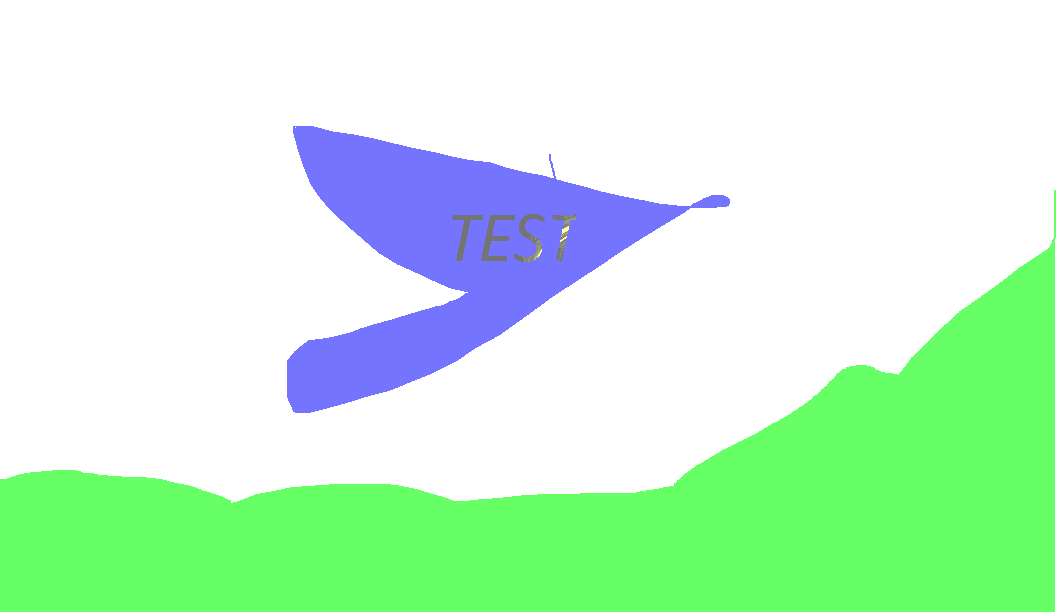
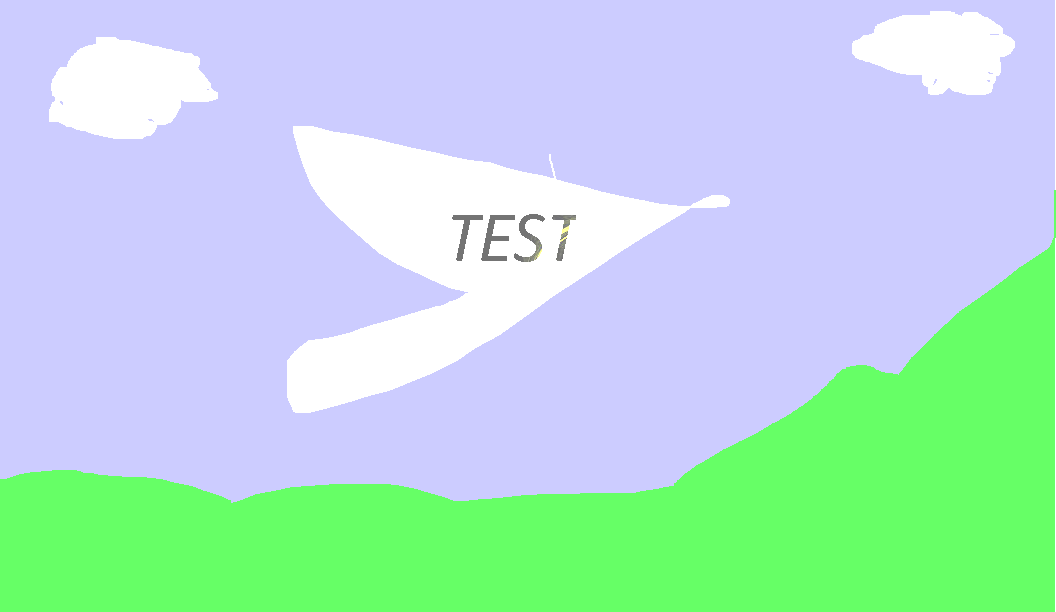
Nice :D

diff --git a/src/ihm/MenuPaint.java b/src/ihm/MenuPaint.java
@@ -38,6 +38,7 @@ public class MenuPaint extends JMenuBar implements ActionListener
 
 	private JMenuItem goBackItem;
 	private JMenuItem deleteImage;
+	private JMenuItem selectAll;
 
 	public MenuPaint(PLPaint frame)
 	{
@@ -63,6 +64,7 @@ public class MenuPaint extends JMenuBar implements ActionListener
 		// Retour
 		this.goBackItem     = new JMenuItem("Retour en arrière");
 		this.deleteImage    = new JMenuItem("Supprimer l'image");
+		this.selectAll      = new JMenuItem("Tous selectionner");
 
 		// Ajout des items à leur menu respectif
 		fichierMenu.add(this.createItem);
@@ -77,6 +79,7 @@ public class MenuPaint extends JMenuBar implements ActionListener
 
 		fichierOutils.add(this.goBackItem     );
 		fichierOutils.add(this.deleteImage    );
+		fichierOutils.add(this.selectAll      );
 
 		helpItem.add(this.aboutItem);
 
@@ -90,6 +93,7 @@ public class MenuPaint extends JMenuBar implements ActionListener
 
 		this.goBackItem    .setAccelerator(KeyStroke.getKeyStroke(KeyEvent.VK_Z, InputEvent.CTRL_DOWN_MASK));
 		this.deleteImage   .setAccelerator(KeyStroke.getKeyStroke(KeyEvent.VK_BACK_SPACE, 0));
+		this.selectAll     .setAccelerator(KeyStroke.getKeyStroke(KeyEvent.VK_A, InputEvent.CTRL_DOWN_MASK));
 
 		/* Positionnement des composants */
 		this.add(fichierMenu);
@@ -110,8 +114,9 @@ public class MenuPaint extends JMenuBar implements ActionListener
 
 
 		
-		this.deleteImage   .addActionListener(this);
-		this.goBackItem    .addActionListener(this);
+		this.deleteImage.addActionListener(this);
+		this.goBackItem .addActionListener(this);
+		this.selectAll  .addActionListener(this);
 	}
 
 	@Override
@@ -188,8 +193,9 @@ public class MenuPaint extends JMenuBar implements ActionListener
 		}
 
 
-		if (this.goBackItem     == e.getSource()) { this.frame.ctrlZ()      ; return;}
-		if (this.deleteImage    == e.getSource()) { this.frame.removeImage(); return;}
+		if (this.goBackItem     == e.getSource()) { this.frame.ctrlZ()       ; return;}
+		if (this.deleteImage    == e.getSource()) { this.frame.removeImage() ; return;}
+		if (this.selectAll      == e.getSource()) { this.frame.selectScreen(); return;}
 	}
 
 	private void openImage()
@@ -239,7 +245,7 @@ public class MenuPaint extends JMenuBar implements ActionListener
 		Graphics2D graphics = biBg.createGraphics();
 
 		// Remplissage  de l'image
-		graphics.setPaint (new Color(this.frame.getSelectedColor()));
+		graphics.setPaint (new Color(Color.WHITE.getRGB()));
 		graphics.fillRect (0, 0, biBg.getWidth(), biBg.getHeight());
 
 		// Affectation de l'image au panelImage

diff --git a/src/ihm/PLPaint.java b/src/ihm/PLPaint.java
@@ -288,6 +288,7 @@ public class PLPaint extends JFrame implements KeyListener
 	public void ctrlZ()
 	{
 		this.metier.goBack();
+		this.panelImage.disableSelection();
 		try {
 			wait(500);
 			
@@ -301,6 +302,7 @@ public class PLPaint extends JFrame implements KeyListener
 	public void reset()
 	{
 		this.metier.reset();
+		this.panelImage.disableSelection();
 	}
 
 	public Image getClickedImage(int x, int y)
@@ -325,10 +327,15 @@ public class PLPaint extends JFrame implements KeyListener
 
 	public void removeImage()
 	{
-		if (this.getSelectedImage() != null)
+		Image img = this.getSelectedImage();
+
+		if (img == null & this.getSelectedRectangle() != null) img = this.metier.trim(this.getSelectedRectangle());
+		if (img == null & this.getSelectedCircle   () != null) img = this.metier.trim(this.getSelectedCircle   ());
+
+		if (img != null)
 		{
 			System.out.println("oui oui ça supprime que dalle");
-			this.metier.removeImage(this.getSelectedImage());
+			this.metier.removeImage(img);
 			this.disableSelection();
 			this.repaintImagePanel();
 
@@ -405,6 +412,12 @@ public class PLPaint extends JFrame implements KeyListener
 		this.addImage(img);
 		this.selectLastImage();
 	}
+
+	public void selectScreen() 
+	{
+		this.panelImage.selectScreen();
+	}
+
 
 	// Methode retourner (horizontal)
 	public void flipHorizontalImage()

diff --git a/src/ihm/PanelControl.java b/src/ihm/PanelControl.java
@@ -36,7 +36,7 @@ import javax.swing.filechooser.FileNameExtensionFilter;
 
 public class PanelControl extends JPanel implements ActionListener, ChangeListener
 {
-	private static final int DEFAULT_COLOR = Color.WHITE.getRGB();
+	private static final int DEFAULT_COLOR = Color.BLACK.getRGB();
 	private PLPaint frame;
 	private int     action;
 
@@ -434,7 +434,9 @@ public class PanelControl extends JPanel implements ActionListener, ChangeListen
 			this.panelButtons.setVisible(true);
 			this.revalidate();
 			this.repaint();
-			this.frame.save();
+			
+			if (this.frame.getAction() != PLPaint.ACTION_BUCKET)
+				this.frame.save();
 		}
 		
 		if (this.btnColor == e.getSource())
